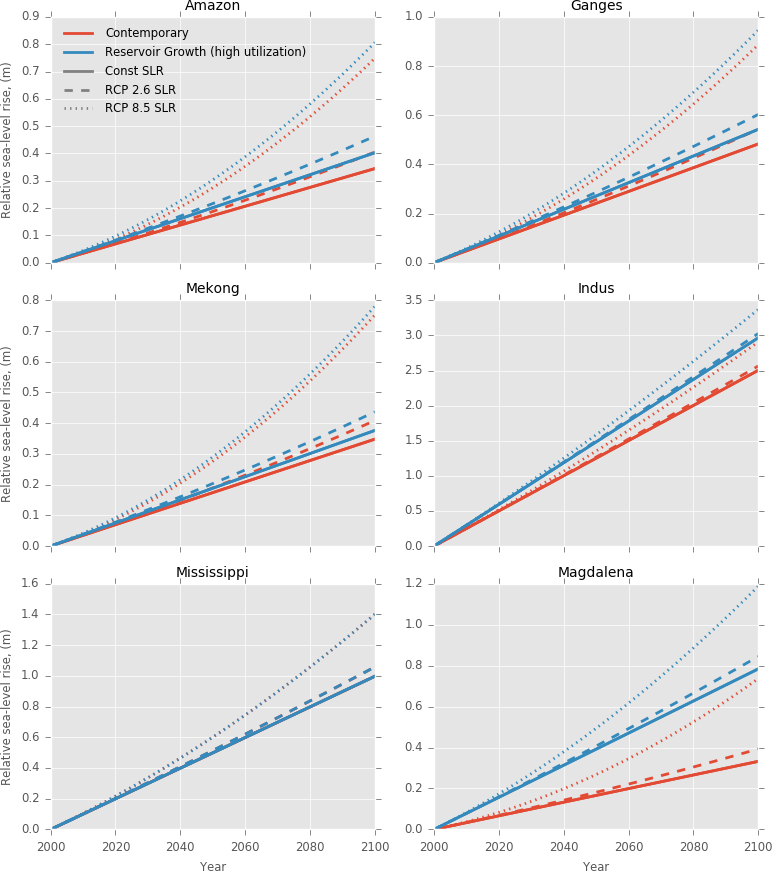
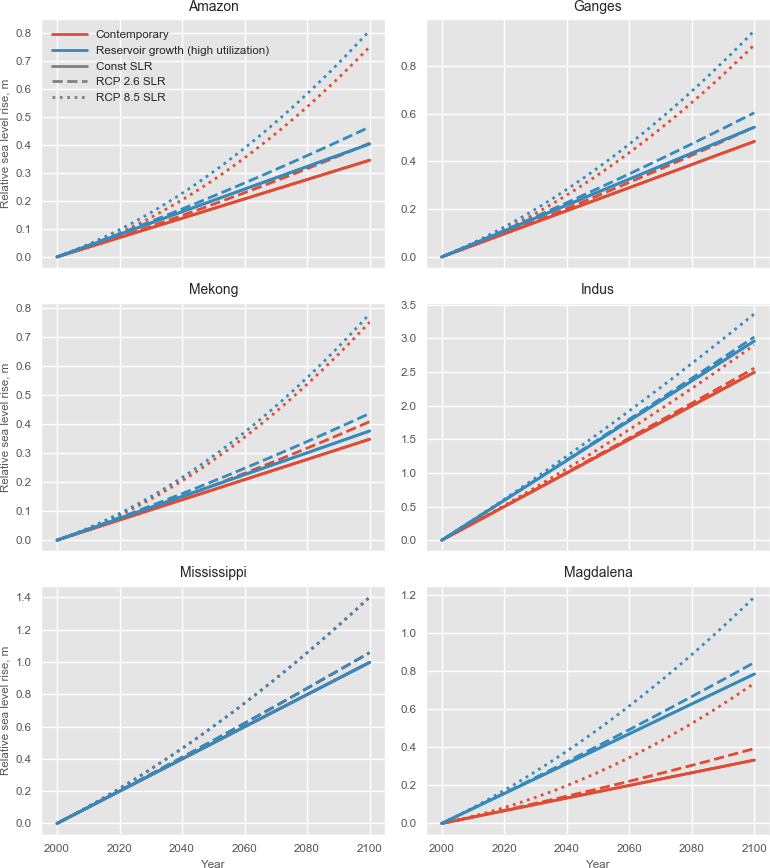
update some text in publication figures

diff --git a/config.py b/config.py
@@ -384,18 +384,18 @@ experiments = {
             },
         'double-reservoirs': {
             'parent': 'contemp',
-            'name': 'Doubled Reservoirs',
+            'name': 'Doubled reservoirs',
             'reservoir_adj_source': ('factor', 2.0),
             },
         'zarfl-reservoirs': {
             'parent': 'contemp',
-            'name': 'Reservoir Growth (Zarfl, 2015)',
+            'name': 'Reservoir growth (Zarfl, 2015)',
             'reservoir_adj_source': ('zarfl2015', '/Users/ztessler/data/Dams_Zarfl_2015/zarfl_2015_dams_data.xls'),
             'compare_with': ['US-reservoir-utilization'],
             },
         'US-reservoir-utilization': {
             'parent': 'contemp',
-            'name': 'Reservoir Growth (high utilization)',
+            'name': 'Reservoir growth (high utilization)',
             'reservoir_adj_source': ('match_basin_utilization', 'Mississippi'),
             },
         'rgis-reservoirs': {
@@ -414,7 +414,7 @@ experiments = {
             },
         'retention-low': {
             'parent': 'contemp',
-            'name': 'Low Sediment Retention',
+            'name': 'Low sediment retention',
             'compare_with': ['retention-high'],
             'retention_frac_low': .05,
             'retention_frac': .1,
@@ -422,7 +422,7 @@ experiments = {
             },
         'retention-high': {
             'parent': 'contemp',
-            'name': 'High Sediment Retention',
+            'name': 'High sediment retention',
             'natural_subsidence_low_retention': '#data/experiments/retention-high/natural_subsidence_low.pd',
             'natural_subsidence': '#data/experiments/retention-high/natural_subsidence.pd',
             'natural_subsidence_high_retention': '#data/experiments/retention-high/natural_subsidence_high.pd',
@@ -434,7 +434,7 @@ experiments = {
             },
         'USresutil-and-retentionlow': {
             'parent': 'contemp',
-            'name': 'Reservoir Growth and Low Sediment Retention',
+            'name': 'Reservoir growth and low sediment retention',
             'compare_with': ['US-reservoir-utilization', 'retention-high'],
             'retention_frac_low': .05,
             'retention_frac': .1,

diff --git a/analysis/process_analysis.py b/analysis/process_analysis.py
@@ -214,11 +214,11 @@ def rslr_distribution_plot(env, source, target):
     names = env['names']
 
     assert names[0] == 'Contemporary' # change names, but make sure sending in what we expect
-    assert names[1] == 'Reservoir Growth (high utilization)'
-    assert names[2] == 'Low Sediment Retention'
+    assert names[1] == 'Reservoir growth (high utilization)'
+    assert names[2] == 'Low sediment retention'
     names[0] = '$\mathregular{S_{con}}$\n(Contemporary)'
-    names[1] = '$\mathregular{S_{rpot}}$\n(Potential Reservoir\nGrowth)'
-    names[2] = '$\mathregular{S_{low}}$\n(Low Sediment\nRetention)'
+    names[1] = '$\mathregular{S_{rpot}}$\n(Potential reservoir\ngrowth)'
+    names[2] = '$\mathregular{S_{low}}$\n(Low sediment\nretention)'
 
     mpl.style.use('ggplot')
     fig, ax = plt.subplots(1, 2, figsize=(10,5))
@@ -236,10 +236,10 @@ def rslr_distribution_plot(env, source, target):
     color = '.7'
 
     sns.violinplot(data=r, inner='points', color=color, linewidth=1, ax=ax[0])
-    ax[0].set_ylabel('RSLR, mm/year')
+    ax[0].set_ylabel('RSLR, mm/y')
 
     sns.violinplot(data=rdiff, inner='points', color=color, linewidth=1, ax=ax[1])
-    ax[1].set_ylabel(r'RSLR increase from $\mathregular{S_{con}}$, mm/year')
+    ax[1].set_ylabel(r'RSLR increase from $\mathregular{S_{con}}$, mm/y')
 
     cutoff = 10
     axlims = ax[1].get_ylim()

diff --git a/sediment/process_sediment.py b/sediment/process_sediment.py
@@ -719,7 +719,7 @@ def plot_delta_scalars_lit(env, target, source):
             xs = pandas.Series([p.get_x()+p.get_width()/2. for p in a.patches], index=df.index)
         lit_vals['x'] = xs
         lit_vals['err'] = lit_vals['max'] - lit_vals['mean']
-        a.errorbar(lit_vals['x'], lit_vals['mean'], yerr=lit_vals['err'], ecolor='k', lw=1, capthick=3, fmt='none', alpha=.7)
+        a.errorbar(lit_vals['x'], lit_vals['mean'], yerr=lit_vals['err'], ecolor='k', lw=1, capsize=3, capthick=3, fmt='none', alpha=.7)
 
         if annot:
             for p, yval in zip(a.patches, df.values.flatten('F')): # flatten in Fortran order to patch patches list, which goes over each data series first
@@ -875,7 +875,7 @@ def plot_rslr_timeseries(env, source, target):
         else:
             ax.xaxis.set_ticklabels([])
         if i in doylabel:
-            ax.set_ylabel('Relative sea-level rise, (m)', fontsize='small')
+            ax.set_ylabel('Relative sea level rise, m', fontsize='small')
         ax.tick_params(axis='both', which='major', labelsize='small')
 
     fig.tight_layout()
